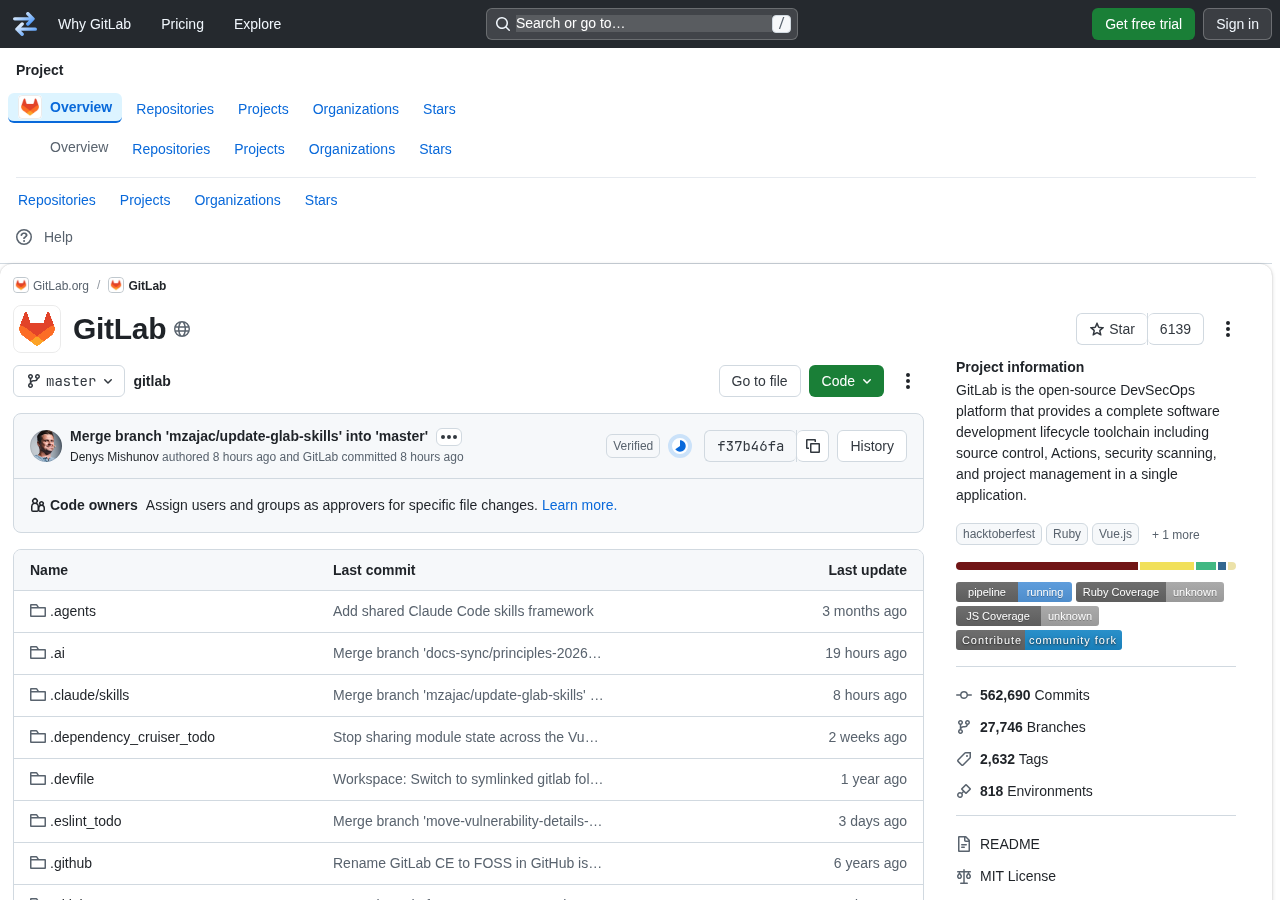
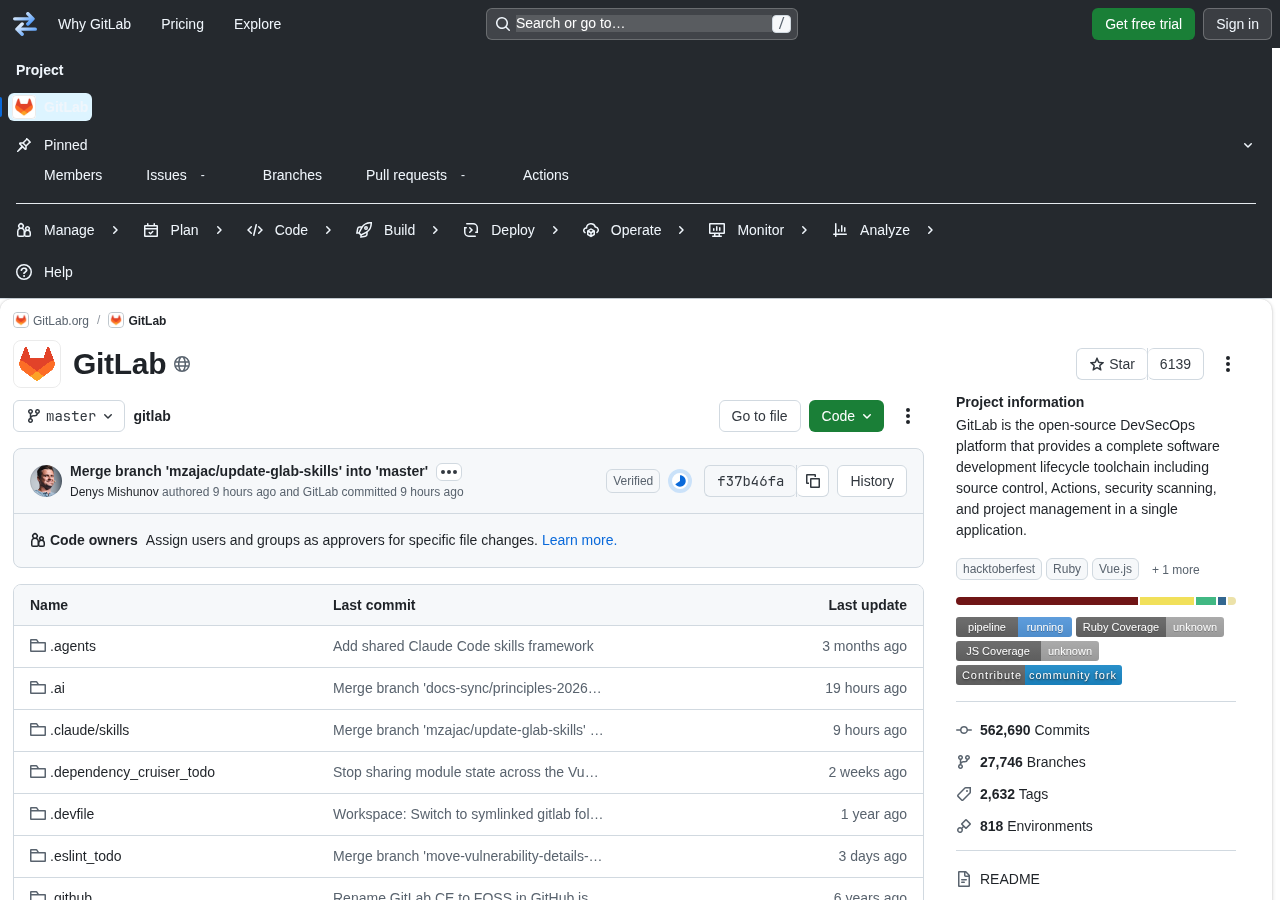
fix(ux): stop the profile menu rebuilding on project pages; darken the L→G strip
Two problems when the GitHub skin is applied to GitLab:

- The profile-menu rebuild selected every `ul` inside `.super-sidebar
  .gl-scroll-scrim`, which on a project page is the static, pinned and group
  sections — so GitHub's profile menu was injected three times (a triplicated
  menu) and the project navigation was hidden. It is now gated to GitLab profile
  pages (document.body.dataset.page === 'users:show'), the same guard
  paintProfileStats already uses.
- The horizontal strip kept GitLab's light sidebar colours; it now takes
  GitHub's dark bar (--gs-header-bg / --gs-header-fg).

Regenerates the published G→L preview. 114 unit tests pass; web-ext lint clean.

diff --git a/src/content/ux.js b/src/content/ux.js
@@ -509,6 +509,11 @@
     if (!build || !document.body) return;
 
     const sourceIsGitlab = t === 'github';
+    // GitLab's profile menu lives in the super sidebar — which every project
+    // page has too — so only rebuild it on an actual profile page. Without this
+    // the project sidebar's static, pinned and group sections each got GitHub's
+    // profile menu, tripling it and hiding the project navigation.
+    if (sourceIsGitlab && document.body.dataset.page !== 'users:show') return;
     const containers = profileMenuContainers(sourceIsGitlab);
     if (!containers.length) return;
 
